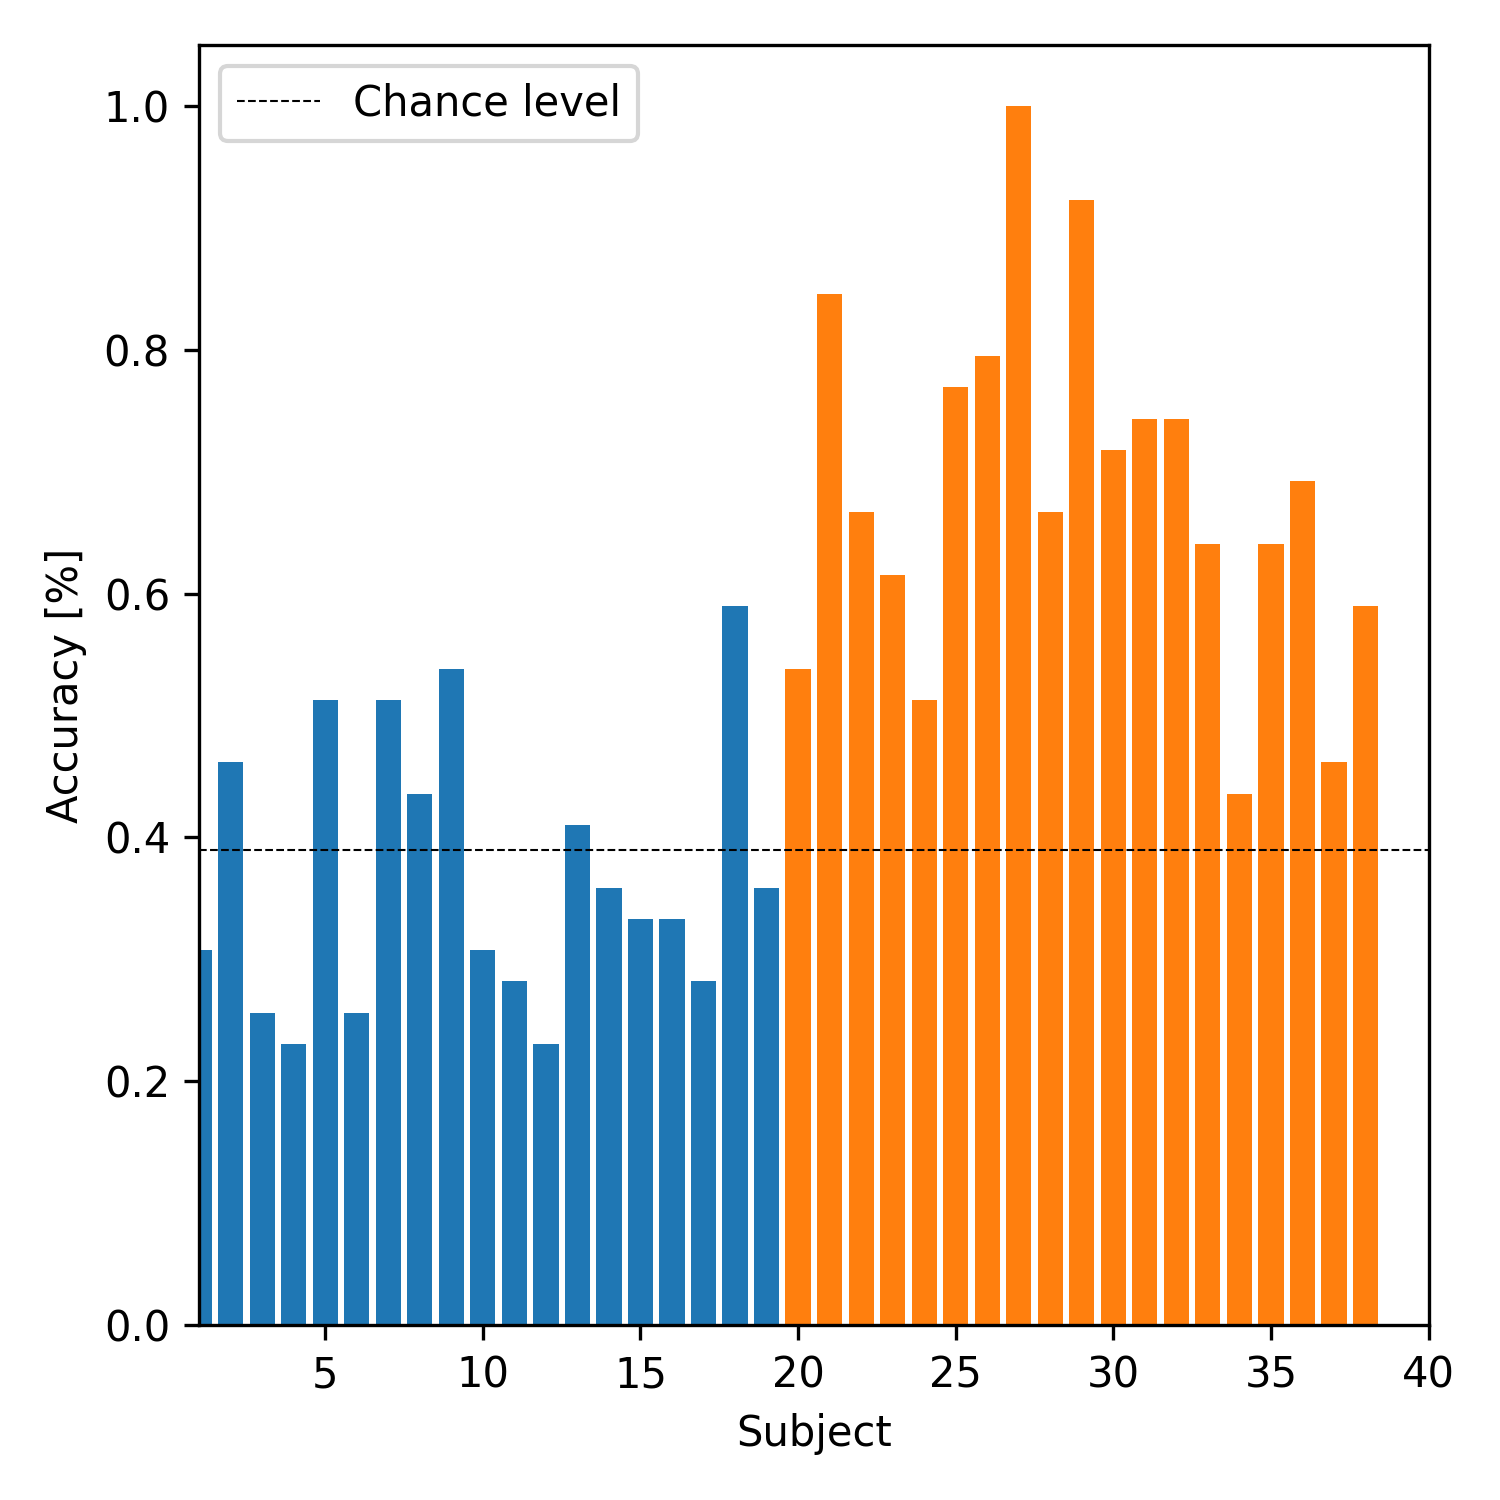
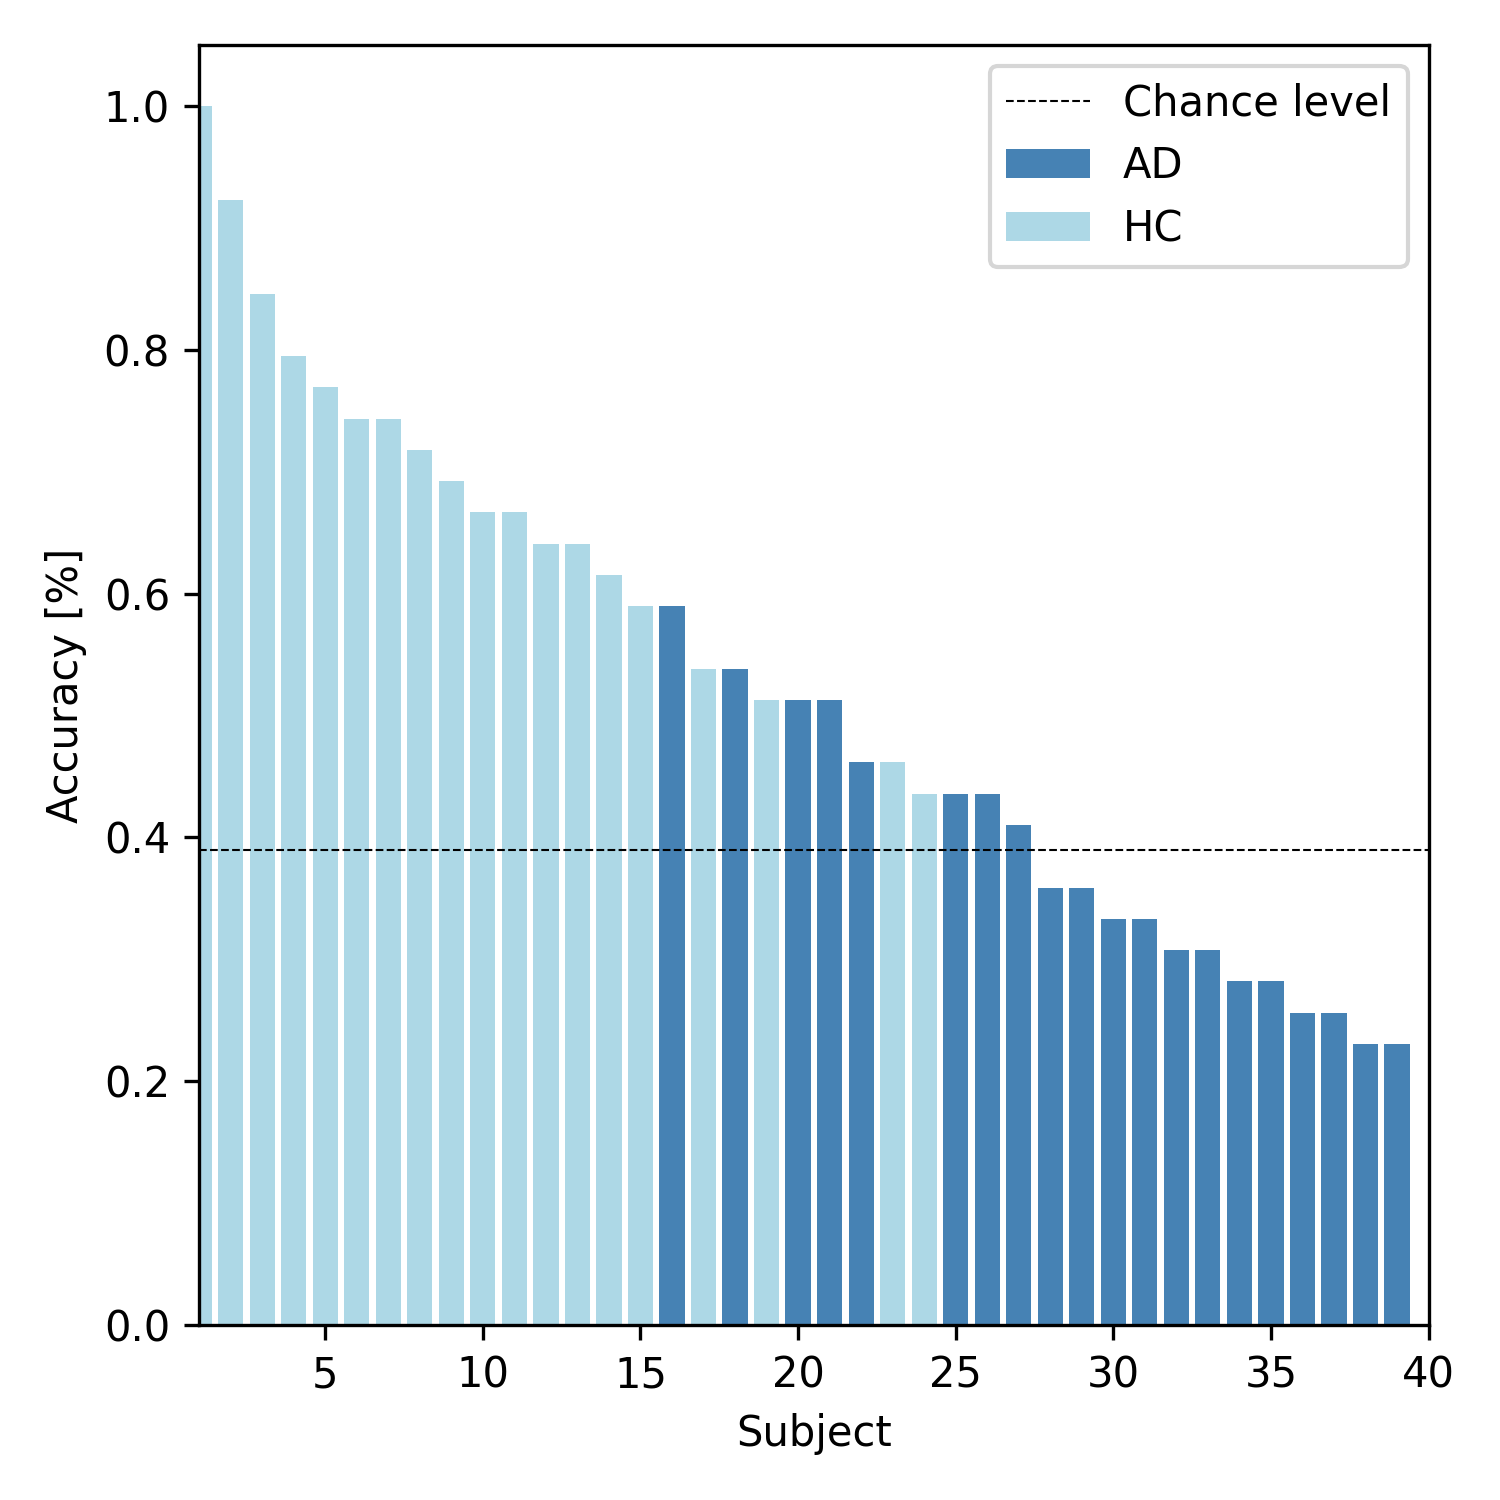
add descriptive adequacy sorted by accuracy

diff --git a/utils/plotting.py b/utils/plotting.py
@@ -5,7 +5,17 @@ import matplotlib.pyplot as plt
 from pathlib import Path
 import numpy as np
 
-def plot_descriptive_adequacy(choices, pred_choices, groups = None, chance_level = None, savepath: Path = None):
+colours = ["steelblue", "lightblue"]
+
+def plot_descriptive_adequacy(
+    choices, 
+    pred_choices, 
+    groups = None, 
+    group_labels:dict = None, 
+    chance_level = None, 
+    sort_accuracy = False,
+    savepath: Path = None
+    ):
     """
     Plot the descriptive adequacy of the model, that is, how well the model predicts the deck choice of the participants.
 
@@ -33,17 +43,33 @@ def plot_descriptive_adequacy(choices, pred_choices, groups = None, chance_level
         sum_choices = len(choices[sub])
         percent_correct.append(sum_correct/sum_choices*100)
 
+    if sort_accuracy:
+        sort_inds = np.argsort(percent_correct)[::-1]
+        percent_correct = [percent_correct[ind] for ind in sort_inds]
+
+        if groups:
+            groups = [groups[ind] for ind in sort_inds]
+
+
     # plot the accuracy
     fig, ax = plt.subplots(1, 1, figsize = (5, 5), dpi = 300)
 
     # plot the accuracy as bar plot but color the bars according to the group
     if groups:
-        ax.bar(range(n_sub), percent_correct, color = [f"C{group-1}" for group in groups])
+        ax.bar(range(1, n_sub + 1), percent_correct, color = [colours[group] for group in groups])
     else:
-        ax.bar(range(n_sub), percent_correct)
+        ax.bar(range(1, n_sub + 1), percent_correct)
     # plot the chance level
+    
     if chance_level:
         ax.axhline(chance_level, color = "black", linestyle = "dashed", label = "Chance level", linewidth = 0.5)
+    
+    # add labels for legend
+    if group_labels:
+        for group in group_labels:
+            ax.bar([0], [0], color = colours[group], label = group_labels[group])
+    
+    if chance_level or group_labels:
         ax.legend()
 
     ax.set_xlabel("Subject")

diff --git a/estimation/plot.py b/estimation/plot.py
@@ -59,7 +59,17 @@ if __name__ in "__main__":
     plot_descriptive_adequacy(
         choices, 
         pred_choices, 
-        groups = [1] * AD_data["sub"].nunique()+ [2] * HC_data["sub"].nunique(),
+        groups = [0] * AD_data["sub"].nunique()+ [1] * HC_data["sub"].nunique(),
+        group_labels = {0: "AD", 1: "HC"},
         chance_level = chance_level(n = 100, p = 0.25),
-        savepath = outpath / "descriptive_adequacy.png"
+        sort_accuracy = True,
+        savepath = outpath / "descriptive_adequacy_sorted.png"
+        )
+    plot_descriptive_adequacy(
+        choices, 
+        pred_choices, 
+        groups = [0] * AD_data["sub"].nunique()+ [1] * HC_data["sub"].nunique(),
+        group_labels = {0: "AD", 1: "HC"},
+        chance_level = chance_level(n = 100, p = 0.25),
+        savepath = outpath / "descriptive_adequacy_sorted.png"
         )
